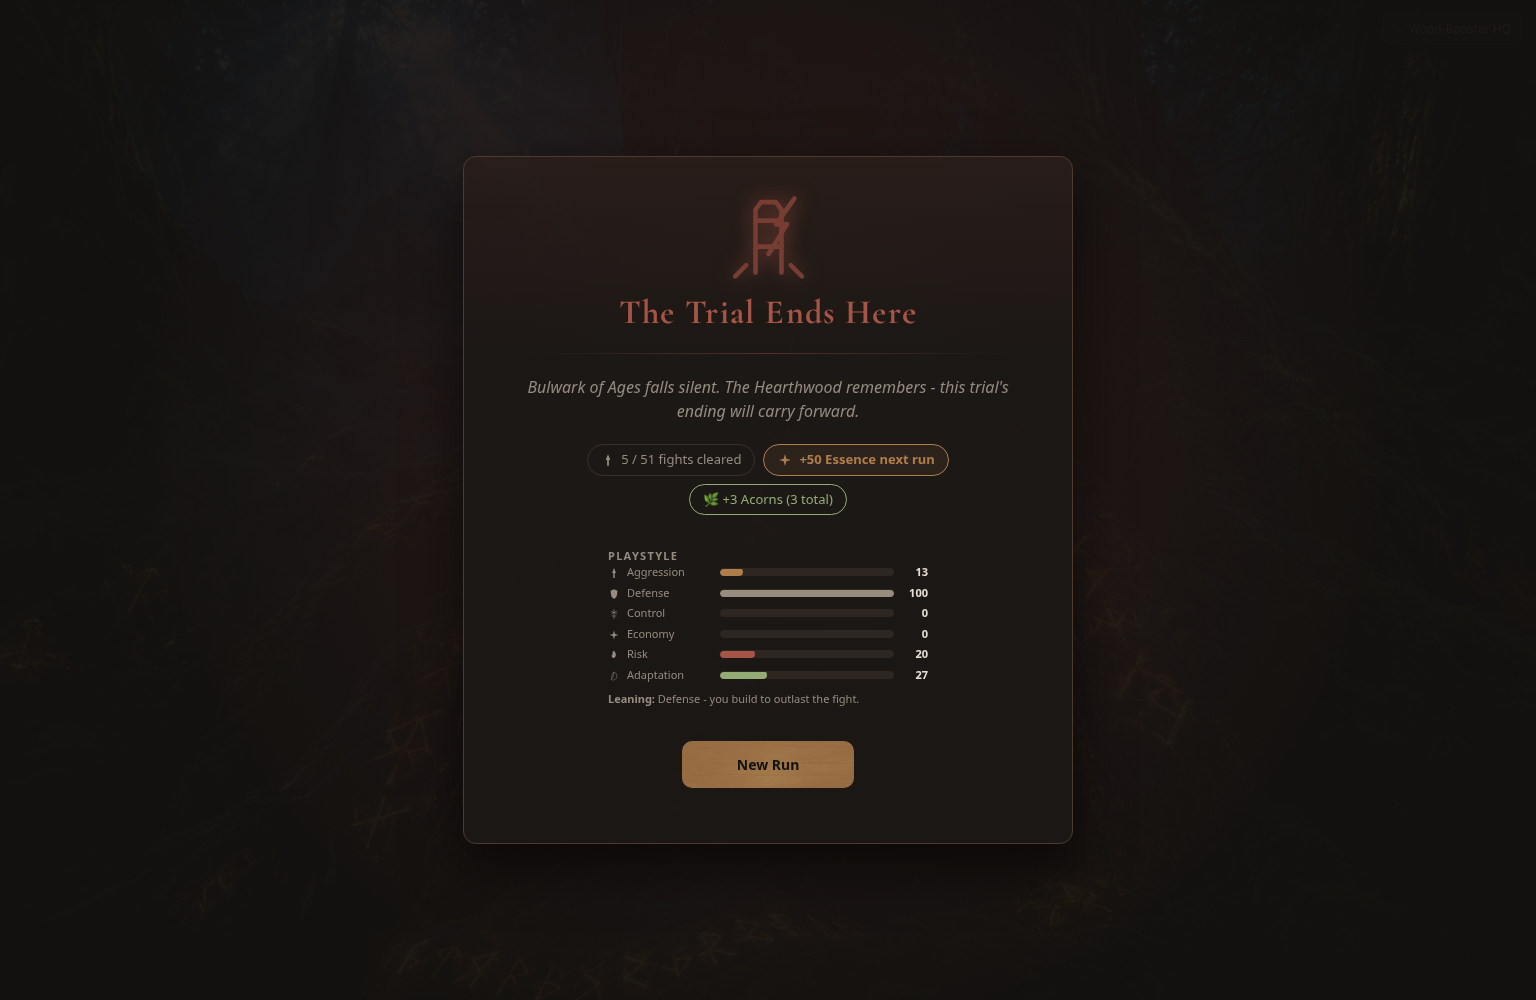
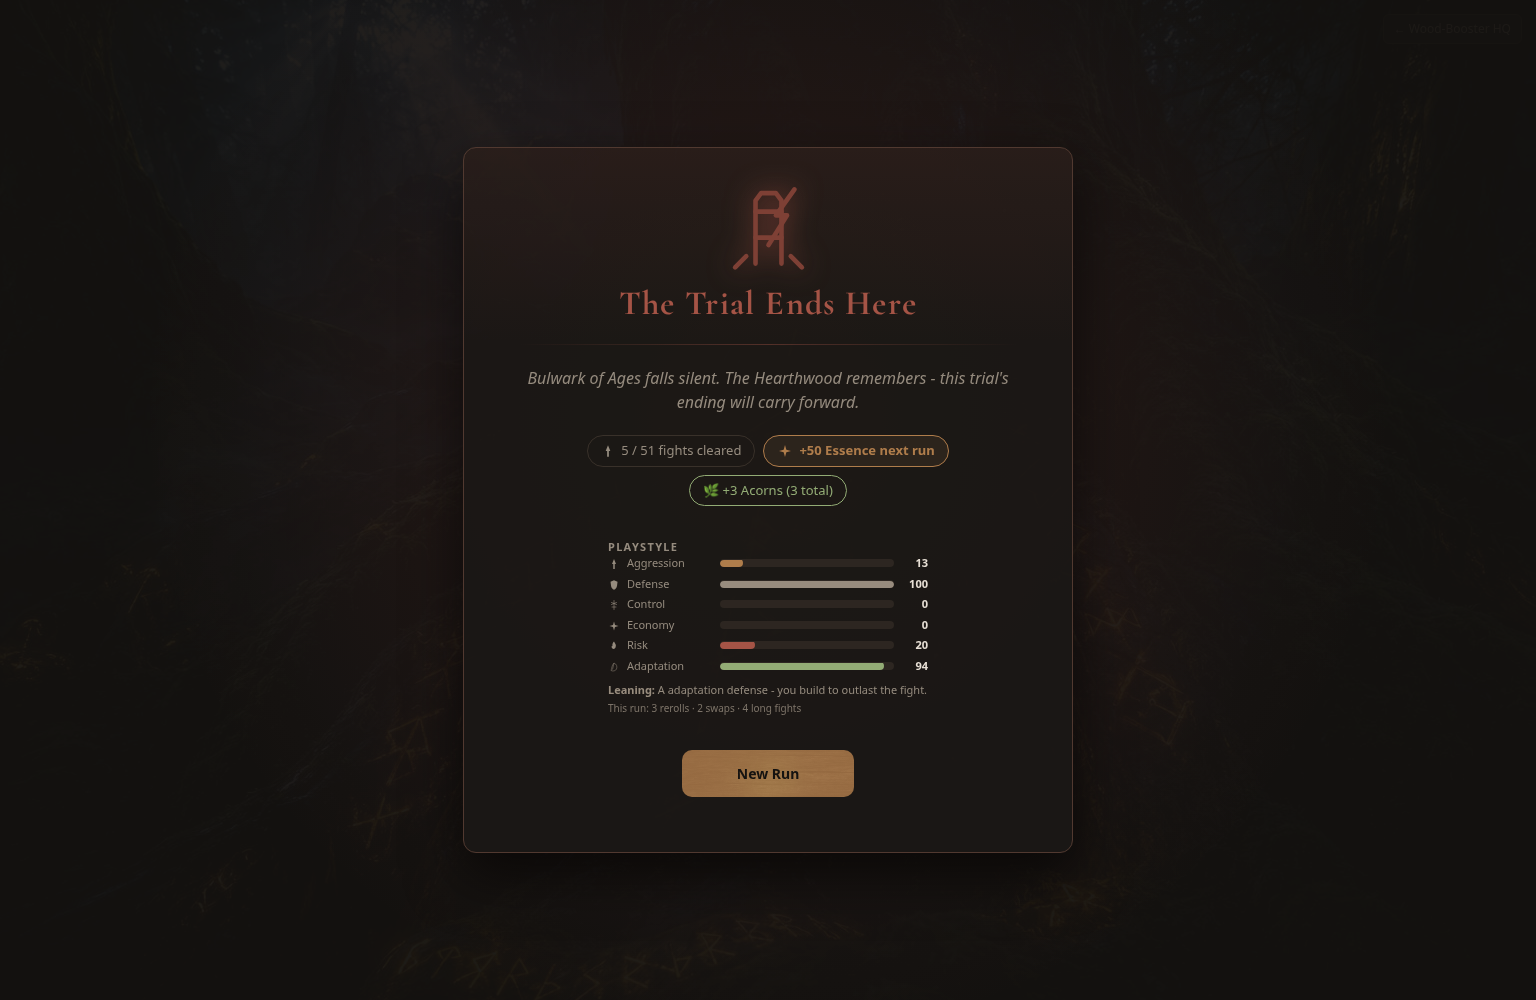
Hearthwood: playstyle history tally
#426 follow-up. The Strategic Playstyle profile read only the run's
current state; the Seed/Playstyle PRD §14 also wants HISTORY ("combat
duration, risk / economy decisions"). This adds a tiny cumulative
tally, bumped at the decision points as they happen, so
Adaptation / Defense / Economy reflect what you actually did.

- runEngine.js: `runState.styleLog = { rerolls, pivots, grinds,
  maxEssence }`, initialised in startRun (additive key, read `|| 0`
  everywhere - no RUN_SAVE_VERSION bump). A `bumpStyle` helper merges a
  patch. Bumps: `rerollShop` → rerolls; `sellUnit` / `reforgeUnit` →
  pivots (a mid-run build change); `resolveBattleOutcome` won-non-boss
  → grinds += (battle ran 8+ rounds) and maxEssence = max(peak, the
  post-win balance). The essence value in that return is byte-identical
  (same expression, extracted to a const).
- playstyle.js: `evaluatePlaystyle` reads `styleLog` into the raw sums -
  rerolls + pivots → adaptation, grinds → defense, maxEssence → economy
  (replacing the instantaneous-essence hoard term with a steadier peak
  signal). Weights alongside the others in the same table.
- PlaystyleProfile.jsx: a `.hw-playstyle-history` line on the full panel
  ("This run: 3 rerolls · 2 swaps · 4 long fights"), only its non-zero
  parts, hidden when the tally is empty. Blurb reworded to drop the
  a/an issue ("Mostly Defense, with strong Adaptation - …").

NOTHING in the combat path reads `styleLog` - it's written by
[…]

Changed region(s): [[0.375, 0.527, 0.625, 0.806], [0.3438, 0.372, 0.6562, 0.527], [0.4062, 0.186, 0.5938, 0.341]]

diff --git a/src/services/heartwood/runEngine.js b/src/services/heartwood/runEngine.js
@@ -872,6 +872,14 @@ export function startRun(characterId, carriedMemory = null, meta = null) {
     // Buyback (sellUnit / reclaimBuyback): the last unit sold, reclaimable
     // next shop at its refund price. null until you sell something.
     buyback: null,
+    // Playstyle history (playstyle.js's evaluatePlaystyle - PR #426
+    // follow-up): a small cumulative tally of decisions the profile
+    // can't read from a state snapshot - rerolls, mid-run unit swaps
+    // (sell/reforge), long grind wins, and the run's peak Essence.
+    // Additive + read `|| 0` everywhere, so an old save without it just
+    // starts the tally from zero - no RUN_SAVE_VERSION bump. NOTHING in
+    // the combat path reads it; only the run-end / rail display does.
+    styleLog: { rerolls: 0, pivots: 0, grinds: 0, maxEssence: START_ESSENCE + (carriedMemory ? MEMORY_ESSENCE_BONUS : 0) },
     // The Almanac (almanac.js): ids this run has encountered - unioned
     // into meta.almanac when the run ends (HeartwoodBattle). Additive +
     // defaulted on read (noteSeen tolerates undefined), so an old save
@@ -1067,7 +1075,7 @@ export function reforgeUnit(runState, benchKey) {
   if (!pool.length) return runState
   const newDef = pool[Math.floor(Math.random() * pool.length)]
   return {
-    ...runState,
+    ...bumpStyle(runState, { pivots: styleN(runState, "pivots") + 1 }),
     essence: runState.essence - REFORGE_COST,
     bench: runState.bench.map((e) => (e.key === benchKey ? { ...e, defId: newDef.id, upgradeLevel: 0 } : e)),
     // Same "a genuinely different unit afterward" rule as the
@@ -1112,7 +1120,7 @@ export function sellUnit(runState, benchKey) {
   const def = UNITS[entry.defId]
   const refund = sellRefundFor(def)
   return {
-    ...runState,
+    ...bumpStyle(runState, { pivots: styleN(runState, "pivots") + 1 }),
     essence: runState.essence + refund,
     bench: runState.bench.filter((e) => e.key !== benchKey),
     deployed: runState.deployed.map((k) => (k === benchKey ? null : k)),
@@ -1420,10 +1428,17 @@ export function upgradeUnit(runState, benchKey, branchId) {
   }
 }
 
+// Playstyle history tally (see startRun's `styleLog`). Merges a partial
+// patch onto the current counters, tolerating a missing styleLog.
+function bumpStyle(runState, patch) {
+  return { ...runState, styleLog: { ...(runState.styleLog || {}), ...patch } }
+}
+const styleN = (runState, k) => runState.styleLog?.[k] || 0
+
 export function rerollShop(runState) {
   if (runState.essence < runState.rerollCost) return runState
   return {
-    ...runState,
+    ...bumpStyle(runState, { rerolls: styleN(runState, "rerolls") + 1 }),
     essence: runState.essence - runState.rerollCost,
     shopOffers: rollShop(runState.marketLevel || 1, benchTribeCounts(runState), runState.shopSlotBonus || 0),
     // Essence rescale: was a bare `+ 1`, now REROLL_INCREMENT (50,
@@ -2375,13 +2390,23 @@ export function resolveBattleOutcome(runState) {
     // the shop/relic-entry side effects below always correctly no-op.
     const nextNode = advanced.phase === "choice" ? null : advanced.path[advanced.path.length - 1]
     const enteringShop = nextNode?.type === "shop"
+    // Interest (bankInterest) is on the balance carried INTO this
+    // fight - rs.essence here, before the win payout is added on top
+    // (TFT order: interest on held gold, then round income).
+    const wonEssence = rs.essence + essenceForWin(rs, node) + bankInterest(rs.essence)
+    // Playstyle history (styleLog): a grind = a win that ran 8+ rounds;
+    // maxEssence tracks the run's peak balance (a steadier "hoarder"
+    // signal than the instantaneous number).
+    const styleLog = {
+      ...(rs.styleLog || {}),
+      grinds: (rs.styleLog?.grinds || 0) + ((runState.battle?.round || 0) >= 8 ? 1 : 0),
+      maxEssence: Math.max(rs.styleLog?.maxEssence || 0, wonEssence),
+    }
     return {
       ...rs,
       ...advanced,
-      // Interest (bankInterest) is on the balance carried INTO this
-      // fight - rs.essence here, before the win payout is added on top
-      // (TFT order: interest on held gold, then round income).
-      essence: rs.essence + essenceForWin(rs, node) + bankInterest(rs.essence),
+      styleLog,
+      essence: wonEssence,
       shopOffers: enteringShop ? (rs.frozen ? rs.shopOffers : rollShop(rs.marketLevel || 1, benchTribeCounts(rs), rs.shopSlotBonus || 0)) : rs.shopOffers,
       itemOffers: enteringShop ? rollItemShop() : rs.itemOffers,
       frozen: enteringShop ? false : rs.frozen,

diff --git a/src/data/heartwood/playstyle.js b/src/data/heartwood/playstyle.js
@@ -77,6 +77,11 @@ export function evaluatePlaystyle(runState) {
   const tribeSpread = new Set(bench.flatMap((u) => u.tribes)).size
   const branchSpread = new Set(bench.flatMap((u) => u.upgrades)).size
   const primarySpread = new Set(bench.map((u) => u.profile?.primary).filter(Boolean)).size
+  // Decision history (runEngine.js's runState.styleLog - PR #427). What
+  // the profile can't see from a snapshot: rerolls + mid-run swaps ->
+  // adaptation, long grind wins -> defense, peak Essence -> economy.
+  const sl = runState.styleLog || {}
+  const styleN = (k) => sl[k] || 0
 
   const raw = {
     aggression:
@@ -89,7 +94,8 @@ export function evaluatePlaystyle(runState) {
       sum((u) => (is(u, "tank") ? 2 : is(u, "healer", "support") ? 1.5 : 0)) +
       sum((u) => (tag(u, "shield", "frontline", "regen", "aura") ? 1 : 0)) +
       branch("defense") * 2 +
-      branch("synergy") * 1.5,
+      branch("synergy") * 1.5 +
+      Math.min(6, styleN("grinds")) * 2,
     control:
       sum((u) => (is(u, "control", "debuffer") ? 2 : 0)) +
       sum((u) => (CONTROL_TAGS.some((t) => u.tags.has(t)) ? 1 : 0)) +
@@ -101,7 +107,7 @@ export function evaluatePlaystyle(runState) {
       branch("economy") * 3 +
       sum((u) => (is(u, "economy") ? 2 : 0)) +
       ((runState.marketLevel || 1) - 1) * 1.5 +
-      Math.max(0, essence / (nodeIndex + 1) - 60) / 40,
+      Math.max(0, (styleN("maxEssence") || essence) / (nodeIndex + 1) - 70) / 35,
     risk:
       mods.filter((m) => m.kind === "bane").length * 3 +
       hardNodes * 2 +
@@ -112,7 +118,9 @@ export function evaluatePlaystyle(runState) {
       (tribeSpread >= 3 ? tribeSpread - 1 : 0) +
       (branchSpread >= 3 ? branchSpread : 0) +
       (primarySpread >= 3 ? primarySpread : 0) +
-      Object.values(runState.seen || {}).reduce((s, arr) => s + (arr?.length || 0), 0) * 0.15,
+      Object.values(runState.seen || {}).reduce((s, arr) => s + (arr?.length || 0), 0) * 0.15 +
+      Math.min(8, styleN("rerolls")) * 1.1 +
+      Math.min(5, styleN("pivots")) * 2,
   }
 
   const scores = Object.fromEntries(PLAYSTYLE_AXES.map((a) => [a.id, clamp100((raw[a.id] / SCALE[a.id]) * 100)]))
@@ -123,7 +131,7 @@ export function evaluatePlaystyle(runState) {
   let blurb
   if (!dominant) blurb = "Your run hasn't taken shape yet."
   else if (secondary && scores[secondary] >= scores[dominant] - 12)
-    blurb = `A ${labelOf(secondary).toLowerCase()} ${labelOf(dominant).toLowerCase()} - ${BLURB[dominant]}.`
+    blurb = `Mostly ${labelOf(dominant)}, with strong ${labelOf(secondary)} - ${BLURB[dominant]}.`
   else blurb = `${labelOf(dominant)} - ${BLURB[dominant]}.`
 
   return { scores, dominant, secondary, blurb }

diff --git a/src/components/heartwood/PlaystyleProfile.jsx b/src/components/heartwood/PlaystyleProfile.jsx
@@ -11,6 +11,15 @@ export default function PlaystyleProfile({ runState, compact = false }) {
   const { scores, dominant, blurb } = useMemo(() => evaluatePlaystyle(runState), [runState])
   const domAxis = dominant && PLAYSTYLE_AXES.find((a) => a.id === dominant)
 
+  // Decision history (runEngine.js's styleLog) - the non-zero parts, for
+  // the full panel only.
+  const sl = runState?.styleLog || {}
+  const history = [
+    sl.rerolls ? `${sl.rerolls} reroll${sl.rerolls > 1 ? "s" : ""}` : null,
+    sl.pivots ? `${sl.pivots} swap${sl.pivots > 1 ? "s" : ""}` : null,
+    sl.grinds ? `${sl.grinds} long fight${sl.grinds > 1 ? "s" : ""}` : null,
+  ].filter(Boolean)
+
   if (compact) {
     if (!domAxis) return null
     return (
@@ -53,6 +62,7 @@ export default function PlaystyleProfile({ runState, compact = false }) {
           blurb
         )}
       </p>
+      {history.length > 0 && <p className="hw-playstyle-history">This run: {history.join(" · ")}</p>}
     </div>
   )
 }

diff --git a/src/components/heartwood/heartwood.css b/src/components/heartwood/heartwood.css
@@ -7187,6 +7187,11 @@ img.hw-intent-glyph {
   color: var(--hw-muted);
   margin: 8px 0 0;
 }
+.hw-playstyle-history {
+  font-size: 10px;
+  color: color-mix(in srgb, var(--hw-muted) 80%, transparent);
+  margin: 3px 0 0;
+}
 .hw-playstyle-compact {
   display: flex;
   align-items: center;
